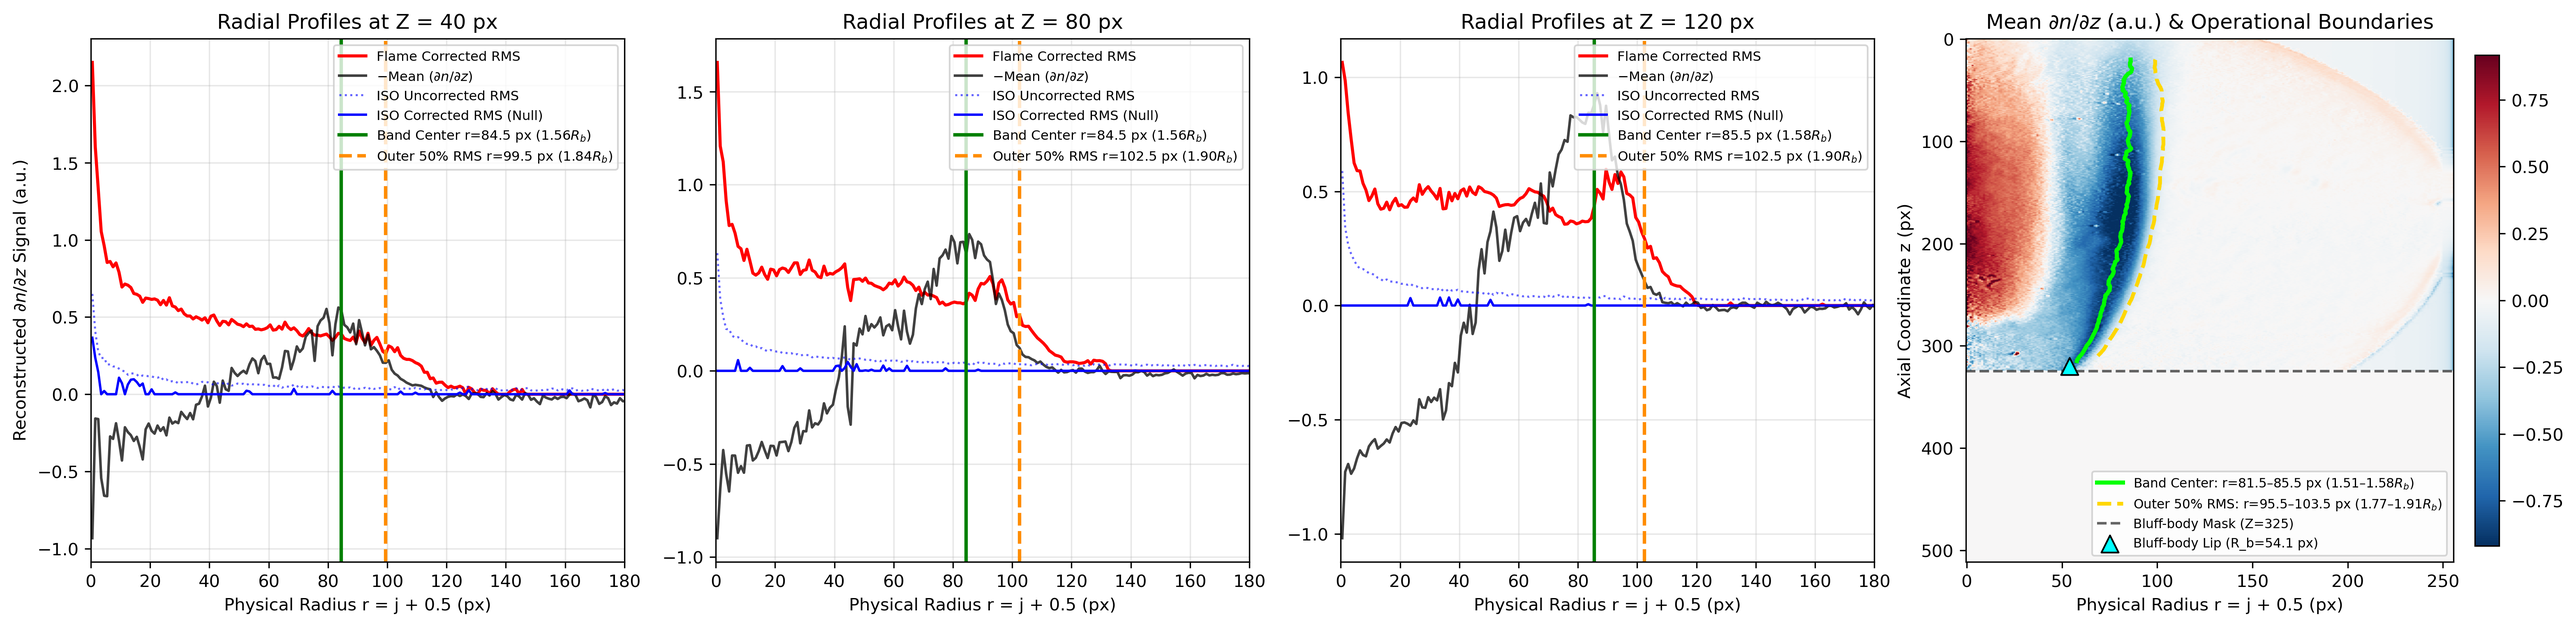
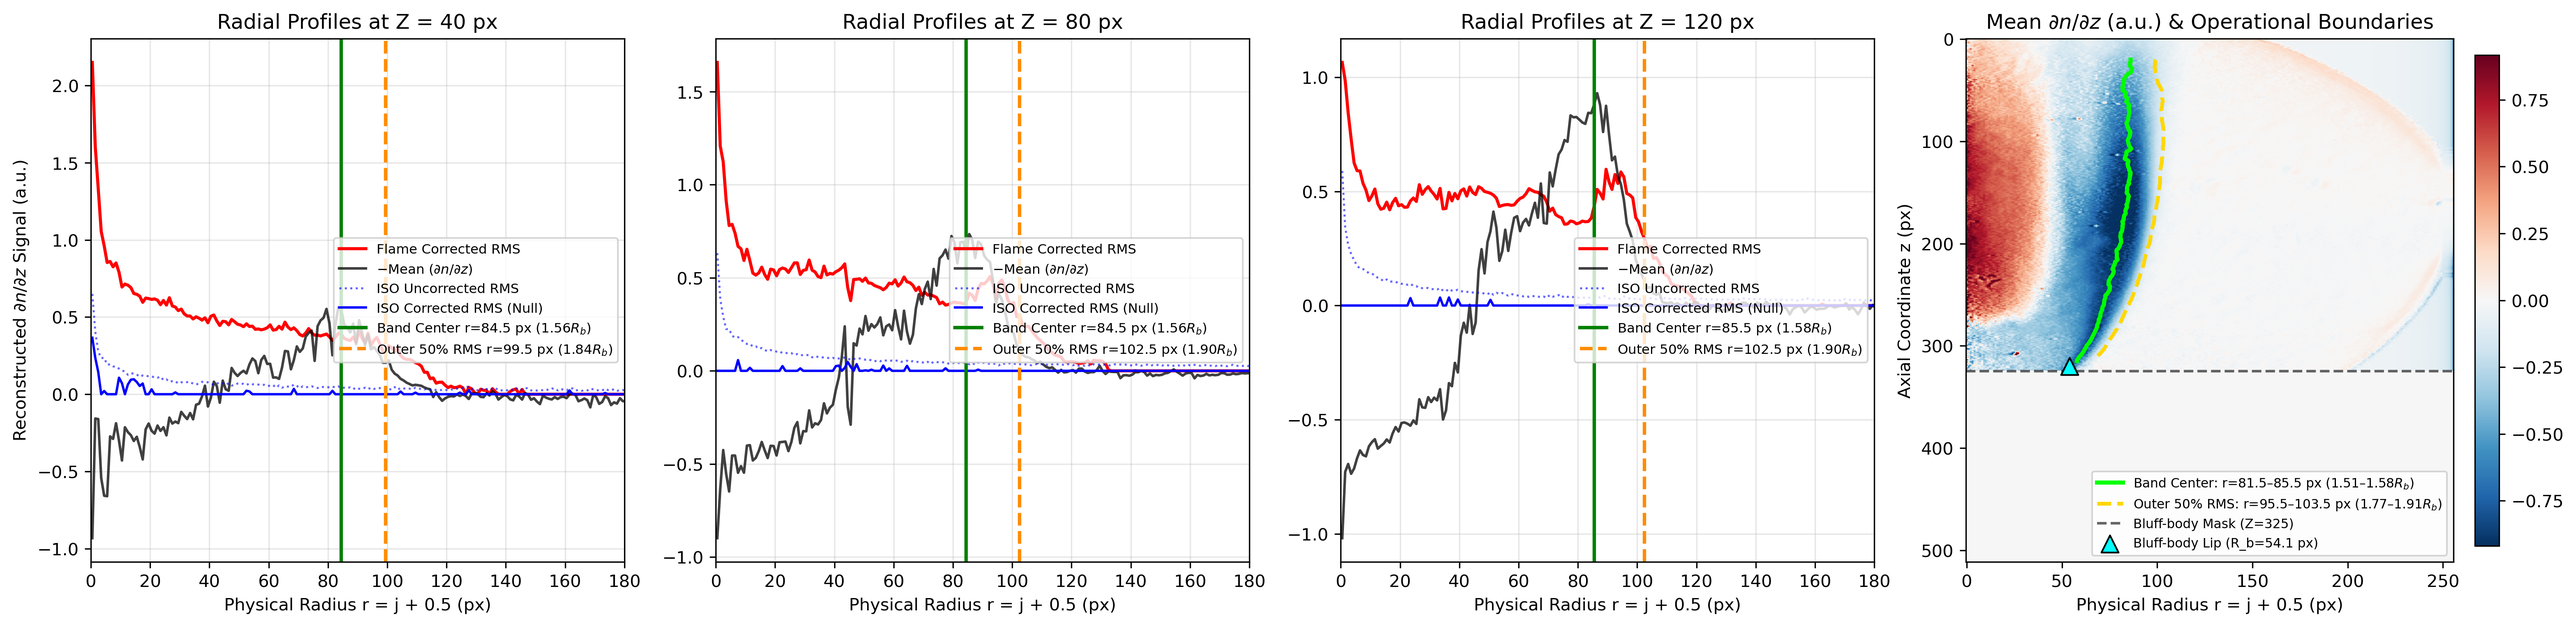
atualizacao da legenda

diff --git a/src/analysis_flame_front.py b/src/analysis_flame_front.py
@@ -89,7 +89,7 @@ for i, z in enumerate(alturas_z):
         axs[i].set_ylabel(r'Reconstructed $\partial n / \partial z$ Signal (a.u.)')
     axs[i].set_xlim(0, 180)
     axs[i].grid(True, alpha=0.3)
-    axs[i].legend(fontsize=7.8, loc='upper right')
+    axs[i].legend(fontsize=7.8, loc='center right')
 
 limite_cor = np.percentile(np.abs(media_chama[:Z_MASK, :]), 99)
 im = axs[3].imshow(media_chama, cmap='RdBu_r', aspect='auto', vmin=-limite_cor, vmax=limite_cor)
